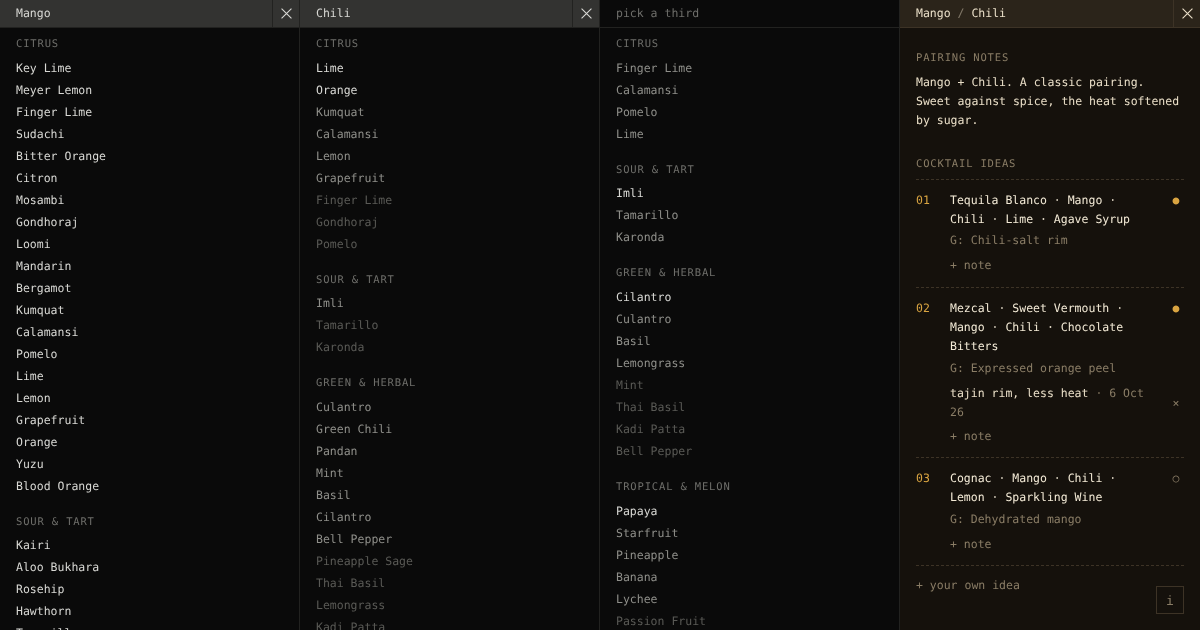
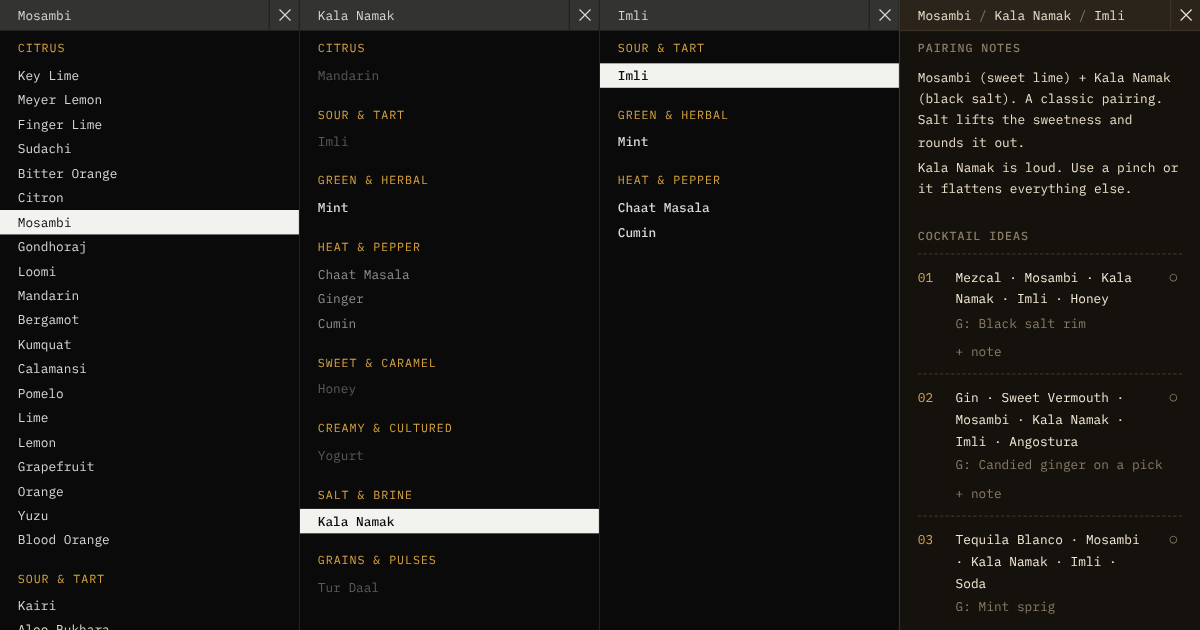
Add files via upload

diff --git a/style.css b/style.css
@@ -75,10 +75,10 @@ body {
 .pin .pin-x svg { width: 11px; height: 11px; display: block; }
 .pin .pin-x:hover { background: var(--pin-hover); }
 .pin button:focus-visible { outline: 1px solid var(--fg); outline-offset: -3px; }
-.col[data-active="false"] { opacity: .35; pointer-events: none; }
+.col[data-active="false"] { pointer-events: none; } /* empty until the previous column has a pick; borders stay full strength */
 .cat {
   padding: 16px 16px 4px;
-  color: var(--dim);
+  color: #d9a441; /* same amber as the idea numbers */
   letter-spacing: .08em;
   font-size: 10.5px;
   user-select: none;
@@ -120,7 +120,7 @@ button.info:focus-visible { outline: 1px solid var(--fg); outline-offset: 2px; }
 .info-box {
   position: fixed; z-index: 3; right: 16px; bottom: calc(50px + env(safe-area-inset-bottom, 0px));
   box-sizing: border-box; width: min(320px, calc(100vw - 32px)); padding: 12px 14px;
-  background: var(--bg); border: 1px solid var(--faint); color: var(--dim);
+  background: #0a0a0a; border: 1px solid var(--faint); color: var(--dim);
 }
 .info-box p { margin: 0 0 8px; }
 .info-box p:last-child { margin-bottom: 0; }
@@ -150,7 +150,7 @@ button.info:focus-visible { outline: 1px solid var(--fg); outline-offset: 2px; }
 }
 .panel { padding: 0 16px 32px; background: var(--bg); color: var(--fg); scrollbar-color: var(--faint) transparent; }
 .panel-pin { margin: 0 -16px 8px; } /* same gap under the bar as the flavor columns */
-.pin.idle.panel-pin { padding: 0 16px; }
+.pin.idle.panel-pin { padding: 0 16px; background: var(--pin-bg); box-shadow: 0 1px 0 var(--pin-line); } /* output header bar looks the same before and after a pick */
 .panel-pin .pin-name { padding-left: 16px; }
 .panel-pin i { font-style: normal; opacity: .45; white-space: pre; }
 .pin .chain { display: block; min-width: 0; white-space: nowrap; overflow: hidden; text-overflow: ellipsis; }
@@ -223,7 +223,6 @@ button.item[aria-pressed="true"] .dot { background: var(--inv-fg); }
   .panel-pin { margin-inline: -8px; }
   /* top hairline matches the bar's bottom hairline: same 1px, same colour */
   .panel-pin::before { content: ""; position: absolute; left: 0; right: 0; top: 0; height: 1px; background: var(--pin-line); z-index: 2; pointer-events: none; }
-  .pin.idle.panel-pin::before { background: var(--rule); }
   .pin.idle.panel-pin, .panel-pin .pin-name { padding-inline: 8px; }
   button.info { width: 32px; height: 32px; font-size: 15px; right: 8px; bottom: calc(8px + env(safe-area-inset-bottom, 0px)); }
   .info-box { left: 8px; right: 8px; width: auto; max-height: calc(100vh - 72px); overflow-y: auto; bottom: calc(48px + env(safe-area-inset-bottom, 0px)); }
